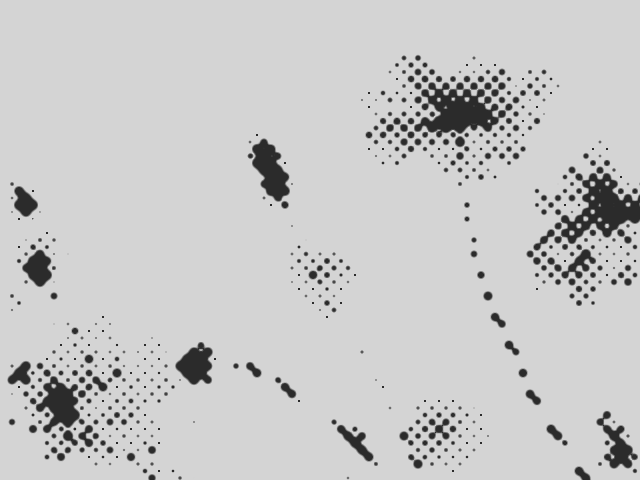
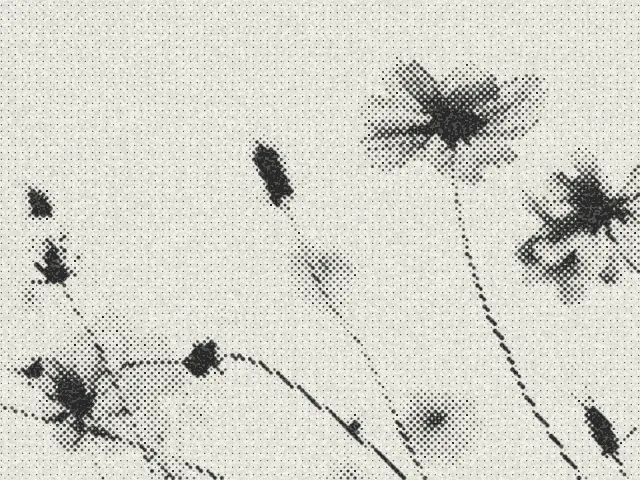
homepage thumb, slight tweaks

diff --git a/docs/src/app/(shaders)/halftone-dots/page.tsx b/docs/src/app/(shaders)/halftone-dots/page.tsx
@@ -5,11 +5,7 @@ import { useControls, button, folder } from 'leva';
 import { setParamsSafe, useResetLevaParams } from '@/helpers/use-reset-leva-params';
 import { usePresetHighlight } from '@/helpers/use-preset-highlight';
 import { cleanUpLevaParams } from '@/helpers/clean-up-leva-params';
-import {
-  HalftoneDotsType,
-  HalftoneDotsTypes,
-  ShaderFit,
-} from '@paper-design/shaders';
+import { HalftoneDotsType, HalftoneDotsTypes, ShaderFit } from '@paper-design/shaders';
 import { levaImageButton } from '@/helpers/leva-image-button';
 import { useState, useEffect, useCallback } from 'react';
 import { toHsla } from '@/helpers/color-utils';
@@ -84,7 +80,7 @@ const HalftoneDotsWithControls = () => {
       },
       inverted: { value: defaults.inverted, order: 201 },
       straight: { value: defaults.straight, order: 202 },
-      size: { value: defaults.size, min: 4, max: 60, step: 1, order: 300 },
+      size: { value: defaults.size, min: 1, max: 60, step: 1, order: 300 },
       radius: { value: defaults.radius, min: 0, max: 2, order: 301 },
       contrast: { value: defaults.contrast, min: 0.01, max: 1, order: 302 },
       grainMixer: { value: defaults.grainMixer, min: 0, max: 1, order: 350 },

diff --git a/packages/shaders-react/src/shaders/halftone-dots.tsx b/packages/shaders-react/src/shaders/halftone-dots.tsx
@@ -45,9 +45,9 @@ export const ledPreset: HalftoneDotsPreset = {
     speed: 1,
     frame: 0,
     colorBack: '#000000',
-    colorFront: '#29ff3b',
+    colorFront: '#29ff7b',
     size: 10,
-    radius: 0.73,
+    radius: 0.75,
     contrast: 1,
     originalColors: false,
     inverted: true,
@@ -94,18 +94,13 @@ export const holesPreset: HalftoneDotsPreset = {
     originalColors: false,
     inverted: true,
     grainMixer: 0.05,
-    grainOverlay: 0.29,
+    grainOverlay: 0.3,
     straight: true,
     type: 'hole',
   },
 };
 
-export const halftoneDotsPresets: HalftoneDotsPreset[] = [
-  defaultPreset,
-  ledPreset,
-  netPreset,
-  holesPreset,
-];
+export const halftoneDotsPresets: HalftoneDotsPreset[] = [defaultPreset, ledPreset, netPreset, holesPreset];
 
 export const HalftoneDots: React.FC<HalftoneDotsProps> = memo(function HalftoneDotsImpl({
   // Own props

diff --git a/docs/src/app/home-thumbnails.ts b/docs/src/app/home-thumbnails.ts
@@ -147,7 +147,7 @@ export const homeThumbnails = [
         image: halftoneDotsImg,
         shaderConfig: {
           ...halftoneDotsPresets[0].params,
-          scale: 1.05,
+          size: 2.5,
           image: '/images/image-filters/0018.webp',
         },
         alwaysLivePreview: true,
